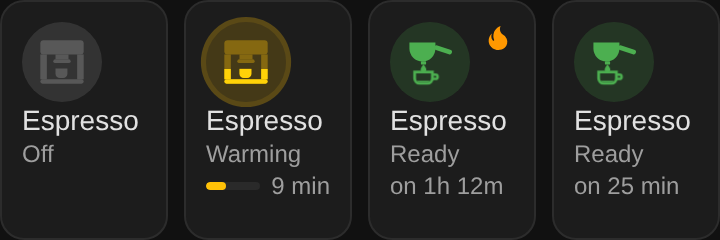
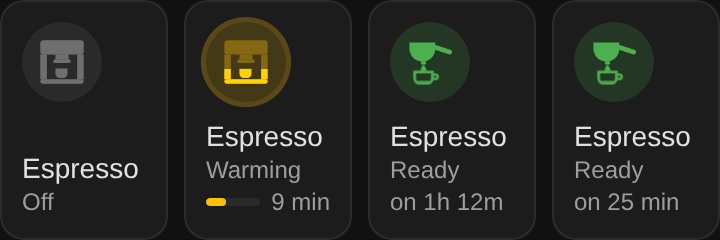
v0.1.1: ready only after the heater ran, steady heating hint, off look
Claude-Session: https://claude.ai/code/session_01KcbsbD7sEKDwg77LPMuDhj

diff --git a/espresso-card.js b/espresso-card.js
@@ -6,7 +6,8 @@
  *
  * Detection, from measured sessions of the owner's machine:
  *   warming up: the heater draws ~1,040 W without a break for about 14 min
- *   ready:      the first reading below 50 W after switch-on; from then on
+ *               (the first reading after switch-on is still standby)
+ *   ready:      the first reading below 50 W after the heater ran; from then on
  *               short thermostat pulses and reheat blocks after a shot are
  *               still "ready" (shown as a small heating hint at most)
  * An optional `state` entity (Off / Warming up / Ready) overrides all of it.
@@ -20,11 +21,17 @@
 // Everything sits in one block so the top-level names cannot clash with the
 // sister cards when the files are loaded as classic scripts.
 {
-const VERSION = "0.1.0";
+const VERSION = "0.1.1";
 
 const ESPRESSO_HOLD_MS = 500;
 const ESPRESSO_MOVE_PX = 10;
 const ESPRESSO_TICK_MS = 30000; // countdown and "on for" stay current
+// At switch-on the plug first reports standby (0 to 70 W); the heater shows from the
+// second reading, about 10 s later. Until the heater is seen, a low reading is not "ready".
+const ESPRESSO_HEATER_GRACE_MS = 30000;
+// Thermostat pulses are single 5 s readings; a reheat after a shot runs for minutes.
+const ESPRESSO_HEAT_HINT_MS = 15000;
+const ESPRESSO_HEAT_HINT_READINGS = 3;
 
 const ESPRESSO_DEFAULTS = {
   name: "Espresso",
@@ -102,6 +109,7 @@ ${Object.values(ESPRESSO_COLORS).map(([v, d]) => `    ${v}: ${d};`).join("\n")}
   .name { font-size: 14px; font-weight: 500; line-height: 18px; color: var(--primary-text-color); white-space: nowrap; overflow: hidden; text-overflow: ellipsis; }
   .status, .detail { font-size: 12px; line-height: 16px; color: var(--secondary-text-color); white-space: nowrap; overflow: hidden; text-overflow: ellipsis; }
   .err .status { color: var(--ec-error); }
+  .nodetail .detail { display: none; }
   .detail { display: flex; align-items: center; gap: 6px; height: 16px; font-variant-numeric: tabular-nums; }
   .detail .words { min-width: 0; overflow: hidden; text-overflow: ellipsis; }
   .bar { display: none; flex: 1; min-width: 16px; height: 4px; border-radius: 2px; background: var(--ec-soft); overflow: hidden; }
@@ -157,6 +165,20 @@ class EspressoCard extends HTMLElement {
     this._session = null; // switch-on moment of the session the card is watching
     this._readyAt = null; // when the power first dropped below ready_below in that session
     this._historyAsked = null; // session for which the power history was requested
+    this._resetSession(null);
+  }
+
+  /* Per-session memory: the ready moment, whether the heater ran, the current heat block. */
+  _resetSession(session) {
+    this._session = session;
+    this._readyAt = null;
+    this._historyAsked = null;
+    this._heaterSeen = false;
+    this._heatSince = null; // first reading of the current run above heating_above
+    this._heatReadings = 0; // readings in that run
+    this._lastPower = undefined; // the power state object last counted as a reading
+    clearTimeout(this._heatTimer);
+    this._heatTimer = null;
   }
 
   static getStubConfig() {
@@ -212,9 +234,7 @@ class EspressoCard extends HTMLElement {
     this._applyColors(this._config.colors);
     this._ids = Object.values(entities).filter(Boolean);
     this._seen = Object.create(null);
-    this._session = null;
-    this._readyAt = null;
-    this._historyAsked = null;
+    this._resetSession(null);
     this._build();
     if (this._hass) this._update();
   }
@@ -257,6 +277,8 @@ class EspressoCard extends HTMLElement {
   disconnectedCallback() {
     clearInterval(this._tick);
     this._tick = null;
+    clearTimeout(this._heatTimer);
+    this._heatTimer = null;
   }
 
   getCardSize() {
@@ -374,12 +396,23 @@ class EspressoCard extends HTMLElement {
 
     // A new session starts at every switch-on.
     const session = swState === "on" ? sw.last_changed : null;
-    if (session !== this._session) {
-      this._session = session;
-      this._readyAt = null;
-      this._historyAsked = null;
+    if (session !== this._session) this._resetSession(session);
+
+    // Count each new power reading once (the tick and other entities re-run this too).
+    const reading = this._s("power");
+    if (session && reading !== this._lastPower) {
+      this._lastPower = reading;
+      if (power !== null && power > this._config.above) {
+        this._heaterSeen = true;
+        if (this._heatSince === null) this._heatSince = now;
+        this._heatReadings++;
+      } else {
+        this._heatSince = null;
+        this._heatReadings = 0;
+        // Ready is the first drop below ready_below after the heater ran, never the standby reading at switch-on.
+        if (this._heaterSeen && power !== null && power < this._config.below && this._readyAt === null) this._readyAt = now;
+      }
     }
-    if (session && power !== null && power < this._config.below && this._readyAt === null) this._readyAt = now;
 
     let kind;
     const override = this._s("state");
@@ -392,20 +425,33 @@ class EspressoCard extends HTMLElement {
       kind = "unavailable";
     } else {
       const age = isNaN(onAt) ? Infinity : now - onAt;
+      const early = age < this._config.timeout;
       if (this._readyAt !== null) kind = "ready";
       else if (power === null) kind = age < this._config.warmup ? "warming" : "ready"; // no power reading: time only
-      else if (power > this._config.above && age < this._config.timeout) kind = "warming";
+      else if (early && power > this._config.above) kind = "warming";
+      else if (early && !this._heaterSeen && age < ESPRESSO_HEATER_GRACE_MS) kind = "warming"; // heater about to start
       else kind = "ready";
-      if (kind === "warming") this._checkHistory(onAt);
+      if (kind === "warming" && power !== null && power > this._config.above) this._checkHistory(onAt);
     }
-    const heating = kind === "ready" && power !== null && power > this._config.above;
+
+    // The hint needs a run of readings above heating_above: a single thermostat pulse never shows it.
+    let heating = false;
+    clearTimeout(this._heatTimer);
+    this._heatTimer = null;
+    if (kind === "ready" && power !== null && power > this._config.above && this._heatSince !== null) {
+      const due = this._heatSince + ESPRESSO_HEAT_HINT_MS;
+      heating = this._heatReadings >= ESPRESSO_HEAT_HINT_READINGS || now >= due;
+      if (!heating && this.isConnected) this._heatTimer = setTimeout(() => this._update(), due - now + 50);
+    }
     return { kind, onAt: isNaN(onAt) ? null : onAt, heating };
   }
 
   /*
    * After a page load the card has not seen the drop itself. If the machine looks
-   * like it is warming up, ask HA once per session whether the power already went
-   * below ready_below since switch-on; then it is a reheat, not a warm-up.
+   * like it is warming up, ask HA once per session for the power since switch-on.
+   * Walked in order: first the heater (above heating_above), then the first reading
+   * below ready_below after it. Found both: this is a reheat, the machine is ready.
+   * The standby reading at switch-on comes before the heater and never counts.
    */
   _checkHistory(onAt) {
     const session = this._session;
@@ -424,15 +470,20 @@ class EspressoCard extends HTMLElement {
       .then((res) => {
         if (this._session !== session || this._readyAt !== null) return;
         const rows = (res && res[id]) || [];
+        let heater = false;
         for (const r of rows) {
           const v = espressoNum(r.s !== undefined ? r.s : r.state);
           const t = r.lu !== undefined ? r.lu * 1000 : Date.parse(r.last_updated || r.last_changed);
-          if (v !== null && v < this._config.below && !(t < onAt)) {
+          if (v === null) continue;
+          if (v > this._config.above) heater = true;
+          else if (heater && v < this._config.below) {
+            this._heaterSeen = true;
             this._readyAt = isNaN(t) ? Date.now() : t;
             this._update();
             return;
           }
         }
+        if (heater) this._heaterSeen = true;
       })
       .catch(() => {}); // no history: the time limit still ends the warm-up
   }
@@ -485,6 +536,7 @@ class EspressoCard extends HTMLElement {
     e.card.classList.toggle("warming", k === "warming");
     e.card.classList.toggle("ready", k === "ready");
     e.card.classList.toggle("err", k === "unavailable");
+    e.card.classList.toggle("nodetail", k === "off" || k === "unavailable");
     e.icon.classList.toggle("show-pour", k === "ready");
     e.icon.classList.toggle("show-machine", k !== "ready");
     e.heat.classList.toggle("show", st.heating);
@@ -521,7 +573,7 @@ class EspressoCard extends HTMLElement {
     }
     this._text(e.status, status, statusLong);
     this._text(e.words, words, wordsLong);
-    e.stack.style.setProperty("--p", k === "warming" ? String(progress) : k === "off" || k === "unavailable" ? "0" : "1");
+    e.stack.style.setProperty("--p", k === "warming" ? String(progress) : "1"); // off: the whole machine in grey
     e.fill.style.width = `${Math.round(progress * 100)}%`;
     e.card.title = title;
     e.card.setAttribute("aria-label", `${this._config.name}: ${status}${title ? `, ${title.toLowerCase()}` : ""}`);

diff --git a/tests/espresso-card.test.js b/tests/espresso-card.test.js
@@ -101,13 +101,13 @@ test("ready after the drop, also before 14 minutes", () => {
   assert.strictEqual(r.words, "on for 13 min");
 });
 
-test("a pulse while ready stays ready, with the heating hint", () => {
+test("a pulse while ready stays ready, without the heating hint", () => {
   const c = render(states({ on: 14, w: 1040 }));
   feed(c, 2.6);
   feed(c, 950); // single thermostat pulse at about 16 min, still inside the 20 min window
   let r = read(c);
   assert.strictEqual(r.status, "Ready");
-  assert(r.heat);
+  assert(!r.heat, "one 5 s pulse is not a reheat");
   feed(c, 180);
   r = read(c);
   assert.strictEqual(r.status, "Ready");
@@ -116,11 +116,40 @@ test("a pulse while ready stays ready, with the heating hint", () => {
   assert(!read(c).heat);
 });
 
-test("a reheat block after 40 minutes stays ready, also on a fresh page", () => {
-  const r = read(render(states({ on: 40, w: 1010 })));
+test("a reheat block shows the hint after 3 readings and hides it at once after", () => {
+  const c = render(states({ on: 30, w: 2.6 }));
+  feed(c, 1030);
+  feed(c, 1045);
+  assert(!read(c).heat, "2 readings (10 s) is not yet a reheat");
+  for (const v of [1040, 1050, 1035, 1042, 1038, 1046, 1041, 1039, 1044, 1037]) feed(c, v); // the rest of a 1-minute block
+  let r = read(c);
   assert.strictEqual(r.status, "Ready");
   assert(r.heat);
+  feed(c, 2.6);
+  r = read(c);
+  assert(!r.heat);
+  assert.strictEqual(r.status, "Ready");
+});
+
+test("the heating hint also shows after 15 s, even when readings repeat", () => {
+  const c = render(states({ on: 30, w: 2.6 }));
+  feed(c, 1040);
+  assert(!read(c).heat);
+  c._heatSince -= 16000; // the same value for 16 s gives no new state object, only time passes
+  c._update();
+  assert(read(c).heat);
+});
+
+test("a reheat block after 40 minutes stays ready, also on a fresh page", () => {
+  const c = render(states({ on: 40, w: 1010 }));
+  let r = read(c);
+  assert.strictEqual(r.status, "Ready");
   assert.strictEqual(r.words, "on for 40 min");
+  feed(c, 1025);
+  feed(c, 1040);
+  r = read(c);
+  assert.strictEqual(r.status, "Ready");
+  assert(r.heat);
 });
 
 test("ready shows hours and minutes", () => {
@@ -150,9 +179,50 @@ test("after a page load, history with the drop turns a reheat into ready", async
   await tick();
   assert.strictEqual(asked.type, "history/history_during_period");
   assert.deepStrictEqual([...asked.entity_ids], [PW]);
-  const r = read(c);
-  assert.strictEqual(r.status, "Ready");
-  assert(r.heat);
+  assert.strictEqual(read(c).status, "Ready");
+});
+
+test("switch-on: the standby reading before the heater is not ready", () => {
+  const c = render({ [SW]: st("on", ago(0)), [PW]: st(0) }); // left over from off
+  assert.strictEqual(read(c).status, "Warming up");
+  feed(c, 2.6); // first reading after switch-on, ~5 s
+  assert.strictEqual(read(c).status, "Warming up");
+  feed(c, 1040); // the heater, ~10 s
+  assert.strictEqual(read(c).status, "Warming up");
+  feed(c, 1052);
+  feed(c, 2.6); // at temperature
+  assert.strictEqual(read(c).status, "Ready");
+});
+
+test("switch-on: other standby values in the first reading (17.3 W, 69 W) are not ready either", () => {
+  for (const first of [0.5, 17.3, 69.0]) {
+    const c = render({ [SW]: st("on", ago(0)), [PW]: st(0) });
+    feed(c, first);
+    feed(c, 1040);
+    assert.strictEqual(read(c).status, "Warming up", String(first));
+  }
+});
+
+test("page load: history with standby, heater and drop is ready; standby alone is not", async () => {
+  const at = (min) => (Date.now() - min * MIN) / 1000;
+  const rows = [{ s: "0.0", lu: at(16) }, { s: "2.6", lu: at(15.9) }, { s: "1040", lu: at(15.8) }, { s: "2.6", lu: at(2) }, { s: "1010", lu: at(0.1) }];
+  const c = render(states({ on: 16, w: 1010 }), {}, async () => ({ [PW]: rows }));
+  await tick();
+  await tick();
+  assert.strictEqual(read(c).status, "Ready");
+
+  // Only standby then the heater still running: warming up, the early 2.6 W does not count.
+  const warm = [{ s: "0.0", lu: at(6) }, { s: "2.6", lu: at(5.9) }, { s: "1040", lu: at(5.8) }];
+  const d = render(states({ on: 6, w: 1040 }), {}, async () => ({ [PW]: warm }));
+  await tick();
+  await tick();
+  assert.strictEqual(read(d).status, "Warming up");
+  feed(d, 2.6); // the heater was seen in the history, so the live drop counts
+  assert.strictEqual(read(d).status, "Ready");
+});
+
+test("a page opened mid-session on standby shows ready, not warming up", () => {
+  assert.strictEqual(read(render(states({ on: 16, w: 2.6 }))).status, "Ready");
 });
 
 test("history without a drop keeps warming up, asked once per session", async () => {
@@ -175,7 +245,6 @@ test("state role overrides the heuristic", () => {
   // Power says warming, the template sensor says ready.
   let r = read(render(states({ on: 5, w: 1040, extra: extra("Ready") }), cfg));
   assert.strictEqual(r.status, "Ready");
-  assert(r.heat);
   // Power says ready, the template sensor says warming up: countdown from switch-on.
   r = read(render(states({ on: 5, w: 2.6, extra: extra("Warming up") }), cfg));
   assert.strictEqual(r.status, "Warming up");

diff --git a/README.md b/README.md
@@ -6,7 +6,7 @@ A small Lovelace tile for an espresso machine on a smart plug: **Off**, **Warmin
 
 * **Warming up:** the machine fills with colour as it heats, with a progress bar and the minutes left ("9 min"; wider tiles add the ready time, "9 min · 14:16"). Progress stops at 99% until the machine is really ready.
 * **Ready:** a portafilter drips into a filling cup; "on 25 min", "on for 1 h 12 m".
-* **Heating hint:** a small flame while a ready machine reheats (after a shot or steaming). It stays "Ready": the machine is usable.
+* **Heating hint:** a small flame while a ready machine reheats (after a shot or steaming), shown once the heater has run for 15 s or 3 readings, so single thermostat pulses never show it. It stays "Ready": the machine is usable.
 * Fits 3 columns by 2 rows in a sections view (about 120px high) and works wider too. All animations stop under reduced motion.
 
 ## Install
@@ -62,10 +62,10 @@ A misspelled option or entity role shows an error card instead of being ignored.
 | State      | When                                                                      |
 | ---------- | ------------------------------------------------------------------------- |
 | Off        | switch off                                                                |
-| Warming up | switch on, power above `heating_above`, on for less than `warmup_timeout`, and the power has not dropped below `ready_below` since switch-on |
+| Warming up | switch on, on for less than `warmup_timeout`, not ready yet this session, and either power above `heating_above` or the heater not started yet (first 30 s after switch-on) |
 | Ready      | switch on and not warming up                                              |
 
-The drop below `ready_below` is remembered for the rest of the session. That is what keeps thermostat pulses and reheat blocks early in a session from looking like a new warm-up. After a page reload in the middle of a warm-up window, the card asks Home Assistant's history once whether the drop already happened.
+Ready is the first reading below `ready_below` **after** the heater has run (power above `heating_above`). The plug reports standby for its first reading after switch-on (0 to 70 W), before the heater starts about 10 s later; that reading never counts. The ready moment is remembered for the rest of the session, which keeps thermostat pulses and reheat blocks early in a session from looking like a new warm-up. After a page reload in the middle of a warm-up window, the card asks Home Assistant's history once, walking it in order: first the heater, then the drop.
 
 A `state` sensor with another value (or unavailable) is ignored, so the card falls back to its own detection.
 
@@ -80,8 +80,11 @@ colors:
 
 ## Notes
 
-* Built from 7 measured sessions of one machine: about 1,040 W without a break for 13.7 to 14.4 minutes, then about 2.6 W standby, with short thermostat pulses and 1 to 5 minute reheat blocks after a shot. Another machine may need other numbers.
-* "On for" counts from the switch's last change. Home Assistant resets that on a restart, or when the plug was briefly unavailable, so after either the duration restarts.
+* Built from 8 measured sessions of one machine: a standby reading first, then about 1,040 W without a break for 13.7 to 14.4 minutes, then about 2.6 W standby, with single 5 s thermostat pulses and 1 to 5 minute reheat blocks after a shot. Another machine may need other numbers.
+
+## Known limits
+
+* "On for" counts from the switch's last change. Home Assistant resets that on a restart, and so does a short plug dropout, so after either the duration starts again from zero. The status itself is not affected: a ready machine reads Ready again within 30 s.
 
 ## Licence
 

diff --git a/CLAUDE.md b/CLAUDE.md
@@ -14,21 +14,27 @@ HACS dashboard card (Lovelace) for the owner's espresso machine on a smart plug.
 | `shot.png` | README image, linked by absolute raw URL so it renders in HACS. |
 | `espresso.yaml` | Minimal and full example configs. |
 
-## Measured behaviour (7 sessions, 9 to 16 Oct 2026)
+## Measured behaviour (8 sessions, 9 to 16 Oct 2026)
 
 * Off: plug off, 0 W.
+* Switch-on: the power sensor still reads 0 W, the first reading after it (~5 s) is standby (0.5 to 69 W), the heater shows from the second reading (~10 s).
 * Warming up: about 1,040 W (1,010 to 1,075) without a break for 13.7 to 14.4 min.
-* Ready: the first reading below 50 W after switch-on (standby about 2.6 W).
+* Ready: the first reading below 50 W after the heater ran (standby about 2.6 W).
 * While ready: single 5 s thermostat pulses of 50 to 1,000 W, and 1 to 5 min reheat blocks at about 1,000 W after a shot or steaming. Still ready.
 * Sessions last about 2 to 3.5 hours.
 
 ## Rules to keep
 
 * The ready moment is latched per session (keyed on the switch's `last_changed`). Without the latch, a pulse or a shot within 20 min of switch-on reads as "warming up" again. Do not drop it.
-* After a page load the card has not seen the drop. When it would show warming up, it asks `history/history_during_period` once per session for the power since switch-on; any reading below `ready_below` latches ready. A failed call is ignored (the timeout still ends the warm-up).
+* A drop below `ready_below` only counts after the heater was seen (above `heating_above`) in the session: the standby reading right after switch-on is not ready. Each power state object counts once as a reading (`_lastPower`), so the tick does not count readings twice.
+* Before the heater is seen the card shows warming up for at most `ESPRESSO_HEATER_GRACE_MS` (30 s) after switch-on, not until `warmup_timeout`: otherwise a page opened on a ready machine, or the reset `last_changed` after an HA restart, would read "warming up" for 20 min.
+* After a page load the card has not seen the drop. When it shows warming up with the heater on, it asks `history/history_during_period` once per session for the power since switch-on and walks it in order: heater first, then the first reading below `ready_below`. A failed call is ignored (the timeout still ends the warm-up).
+* The heating hint needs 3 readings in a row above `heating_above` or 15 s (a timer re-renders at 15 s), and hides on the first lower reading. Single thermostat pulses never show it.
 * A valid `state` entity value always wins; other values fall back to the detection.
 * Progress caps at 99% until the machine is actually ready.
 * The card never hardcodes service calls: tap (`toggle`) and hold (`more-info`) go through `hass-action`.
+* Off and unavailable hide the detail line, so the status sits on the bottom line; the off icon is the full machine in grey.
+* Browser renders: the `ha-card` stub must not set `display` inline, or it overrides the card's flex layout and the render lies.
 * Layout: 3 columns by 2 rows (84px wide on a 360px phone section, 124px on 520px desktop), 120px high. Text has a short and a long version (`.short` / `.long`), switched by a container query at 90px; measure in a real browser (Playwright) after any text or layout change. Nothing may truncate at 84px.
 * mdi has no espresso machine: both icons are drawn inline SVG. The ready animation (drops, cup filling and dipping) and the warming pulse and shimmer stop under reduced motion.
 * Re-render only when one of the card's own entities changes, plus a 30 s refresh for the countdown and duration. DOM built once per config, updated in place.

diff --git a/CHANGELOG.md b/CHANGELOG.md
@@ -1,5 +1,17 @@
 # Changelog
 
+## v0.1.1
+
+Fixes found by checking v0.1.0 against 8 real sessions.
+
+### Fixed
+* **"Ready" right at switch-on:** the plug's first reading after switch-on is still standby (0 to 70 W); the heater shows about 10 s later. That reading was taken as the drop to ready. Ready now only counts after the heater has run in the session, both live and in the history check after a page load (walked in order: heater first, then the drop). Within the first 30 s, before the heater starts, the card shows Warming up.
+* **Heating hint flickered** on single 5 s thermostat pulses. The flame now needs the heater on for 15 s or 3 readings in a row, and goes as soon as the power drops.
+* **Off:** the machine icon showed at a third of its strength, and the text sat a line above the bottom edge. Now the full icon in grey, and "Off" on the bottom line like the other cards.
+
+### Changed
+* README: "On for" restarting after a Home Assistant restart is documented under Known limits.
+
 ## v0.1.0
 
 First release. A small tile for an espresso machine on a smart plug, in the style of the Vacuum, Appliance, Tesla Model 3 and Heating Control cards.
